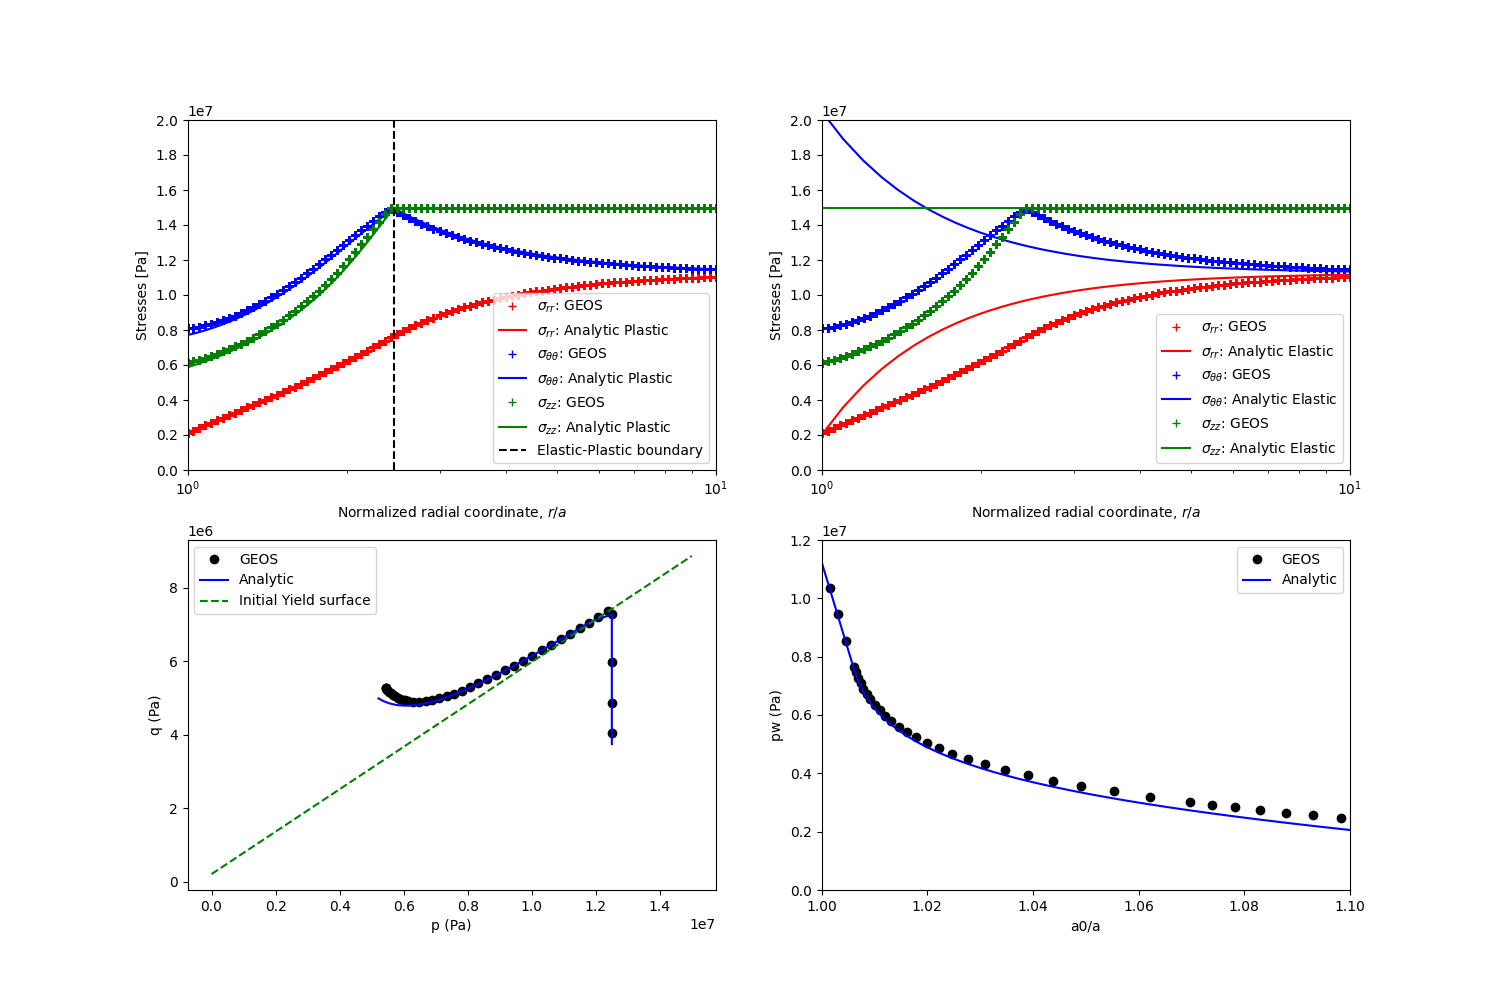
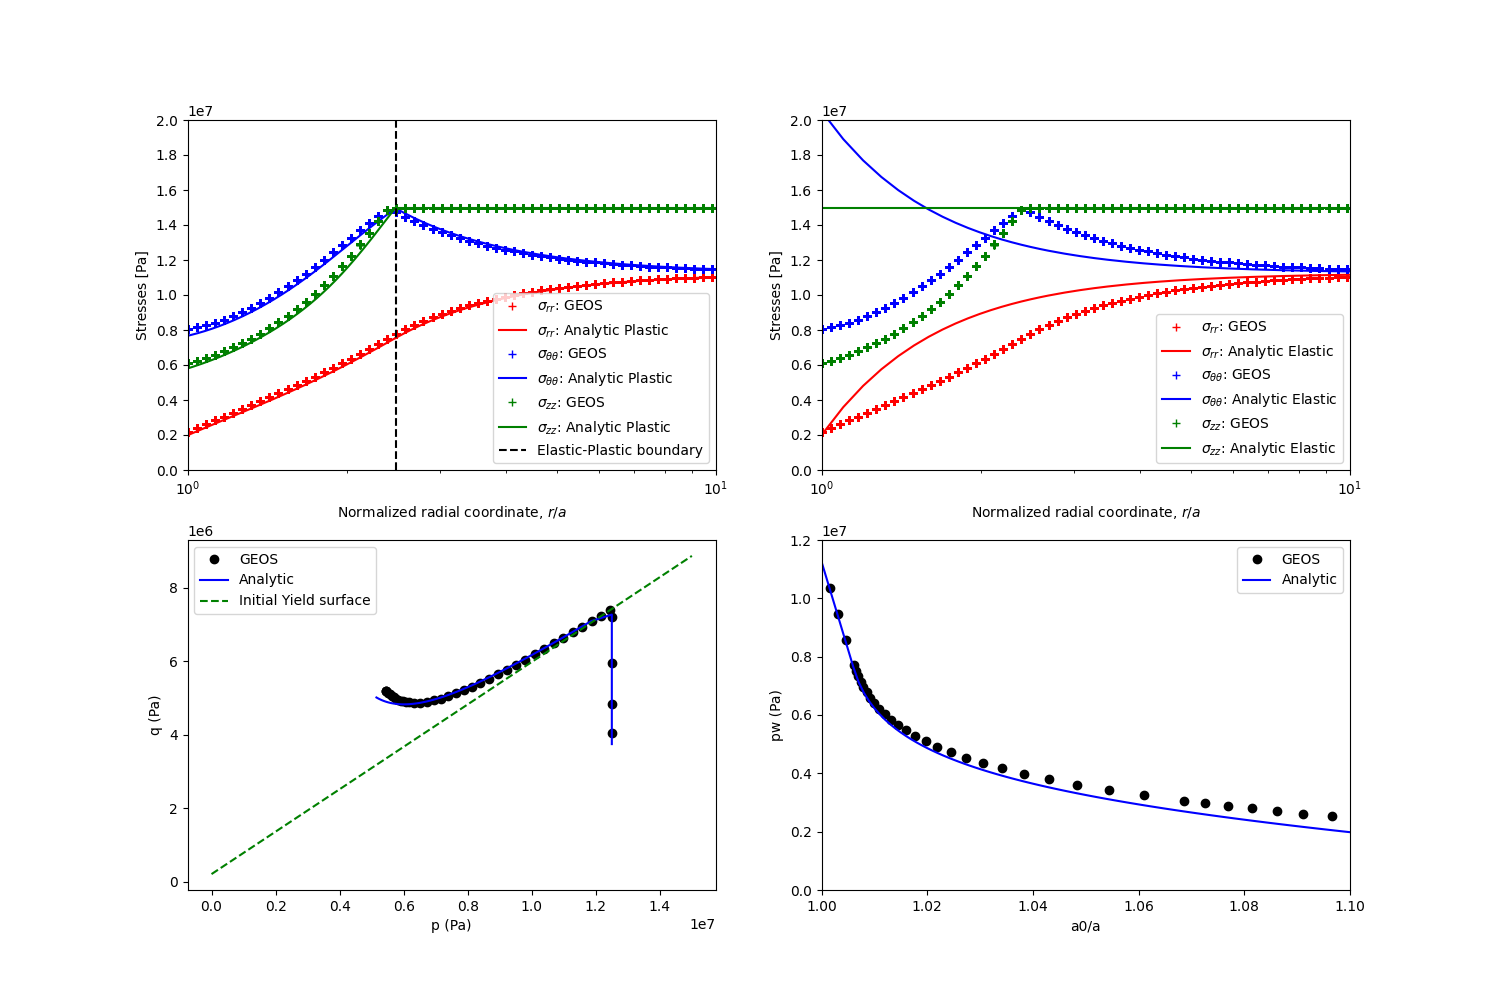
update dilation

diff --git a/src/docs/sphinx/advancedExamples/validationStudies/wellboreProblems/dpWellbore/Example.rst b/src/docs/sphinx/advancedExamples/validationStudies/wellboreProblems/dpWellbore/Example.rst
@@ -53,7 +53,7 @@ The parameters used in the simulation are summarized in the following table.
 +------------------+-------------------------+------------------+---------------+
 | :math:`\phi`     | Friction Angle          | [degree]         | 15.27         |
 +------------------+-------------------------+------------------+---------------+
-| :math:`\psi  `   | Dilation Angle          | [degree]         | 14.0         |
+| :math:`\psi  `   | Dilation Angle          | [degree]         | 15.0         |
 +------------------+-------------------------+------------------+---------------+
 | :math:`h`        | Hardening Rate          | [MPa]            | 10.0          |
 +------------------+-------------------------+------------------+---------------+
